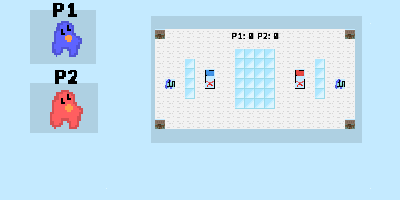
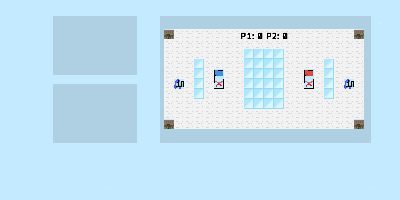
Singleplayer and multiplayer mode selection added + some weapon changes: -Mines now only have 1 ammo -Explosions from mines & missiles can kill ANYONE -Buffed the width of laser gun (looks kinda bad)

Changed region(s): [[0.06, 0.0, 0.93, 0.72]]

diff --git a/js/game.js b/js/game.js
@@ -14,6 +14,10 @@ class Game {
 		this.gameover = false;
 
 		this.justOffedControls = false;
+
+		// Players pressing ready
+		this.p1Pressed = false;
+		this.p2Pressed = false;
 	}
 
 	// Head to selection screen
@@ -27,6 +31,10 @@ class Game {
 		for (var i = 0; i < temp.length; i++) {
 			temp[i].style.visibility = "visible";
 		}
+		document.getElementById("goButton").style.visibility = "hidden";
+
+		this.p1Pressed = false;
+		this.p2Pressed = false;
 
 		// Set level name div to get the level name
 		document.getElementById("levelName").innerHTML = levelNames[this.level];
@@ -131,7 +139,37 @@ class Game {
 
 	// Update the selection screen loop
 	updateSelect() {
-		ctx.drawImage(selectionScreen_img, 0, 0);	
+		ctx.drawImage(selectionScreen_img, 0, 0);
+
+
+		// Show press to join for P1
+		if (!this.p1Pressed && !this.p2Pressed) {
+			ctx.drawImage(p1Join_img, 0, 0);
+
+			if (Keys.space) {
+				this.p1Pressed = true;
+				document.getElementById("goButton").style.visibility = "visible";
+				playSound(snowbreak_snd);
+			}
+
+		// Show press to join for P2
+		} else if (this.p1Pressed && !this.p2Pressed) {
+			ctx.drawImage(p2Join_img, 0, 0);
+
+            if (Keys.f) {
+            	this.p2Pressed = true;
+            	this.bot = false;
+           		playSound(snowbreak_snd);
+            }
+
+		} else if (this.p1Pressed && this.p2Pressed) {
+			ctx.drawImage(p1p2Join_img, 0, 0);
+		}
+
+
+
+
+		//if p1 and p2 not pressed ---> check for L to be pressed
 	}
 
 	// Update the control screen loop

diff --git a/js/weapon.js b/js/weapon.js
@@ -52,7 +52,7 @@ class Mine extends Gun {
 		this.gunID = 6;
 
 		this.shootTime = 1;
-		this.ammo = 2;
+		this.ammo = 1;
 
 		this.shootTime = 20;
 		this.animDelayTime = 20;
@@ -317,7 +317,7 @@ class LaserGun extends Gun {
 		if (this.chargeTimer > 0) {
 			ctx.fillStyle = "red";
 			ctx.globalAlpha = 0.3;
-			var beamWidth = 4;
+			var beamWidth = 12;
 			var beamDist = 400;
 
 			var anchorX = this.player.getXAnchor();
@@ -409,7 +409,7 @@ class Explosion extends Bullet {
 	// Check if hitting anyone or any walls
 	checkHit() {
 		for (var i of playerArr) {
-			if (this.owner.playerID != i.playerID && this.collideWith(i) && !i.dead) {
+			if (this.collideWith(i) && !i.dead) {
 				console.log("REKTT player " + i.playerID + "died...");
 				i.die(this.dir);
 			}
@@ -462,7 +462,7 @@ class MineBomb extends Bullet {
 	// Check if hitting anyone
 	checkHit() {
 		for (var i of playerArr) {
-			if (this.owner.playerID != i.playerID && this.collideWith(i) && !i.dead) {
+			if (this.collideWith(i) && !i.dead) {
 				this.explode();
 			}
 		}
@@ -689,10 +689,10 @@ class LaserBlast extends Bullet {
 		var tall;
 		if (dir == DIR.left || dir == DIR.right) {
 			wide = 20;
-			tall = 8;
+			tall = 16;
 		} else {
 			wide = 8;
-			tall = 20;
+			tall = 16;
 		}
 		super(x, y, wide, tall, laserBeam_img, 2, 3, [0,1,2], 0, 0, owner, dir);
 		this.aliveTimer = 30;  // How long to stay alive for

diff --git a/js/level.js b/js/level.js
@@ -19,16 +19,16 @@ levelNames.push("Slopey Range");
 */
 // Plain level
 levels.push([
-			["C", 0 , 0 , 0 , 0 , 0 , 0 , 0 , 0 , 0 , 0 , 0 , 0 , 0 , 0 , 0 , 0 , 0 , 0 ,"C"],
 			[ 0 , 0 , 0 , 0 , 0 , 0 , 0 , 0 , 0 , 0 , 0 , 0 , 0 , 0 , 0 , 0 , 0 , 0 , 0 , 0 ],
-			[ 0 , 1 ,"G","W","W", 0 , 0 , 0 , 0 , 0 , 0 , 0 , 0 , 0 , 0 , 0 , 0 , 0 , 0 , 0 ],
+			[ 0 , 0 , 0 , 0 , 0 , 0 , 0 , 0 , 0 , 0 , 0 , 0 , 0 , 0 , 0 , 0 , 0 , 0 , 0 , 0 ],
+			[ 0 , 1 ,"G","W","W", 0 ,"C", 0 , 0 , 0 , 0 , 0 , 0 ,"C", 0 , 0 , 0 , 0 , 0 , 0 ],
 			[ 0 , 0 ,"W","W","W", 0 , 0 , 0 , 0 , 0 , 0 , 0 , 0 , 0 , 0 , 0 , 0 , 0 , 0 , 0 ],
 			[ 0 , 0 ,"W","W","W", 0 , 0 , 0 , 0 , 0 , 0 , 0 , 0 , 0 , 0 , 0 , 0 , 0 , 0 , 0 ],
 			[ 0 , 0 , 0 , 0 , 0 , 0 , 0 , 0 , 0 , 0 , 0 , 0 , 0 , 0 , 0 ,"W","W","W", 0 , 0 ],
 			[ 0 , 0 , 0 , 0 , 0 , 0 , 0 , 0 , 0 , 0 , 0 , 0 , 0 , 0 , 0 ,"W","W","W", 0 , 0 ],
-			[ 0 , 0 , 0 , 0 , 0 , 0 , 0 , 0 , 0 , 0 , 0 , 0 , 0 , 0 , 0 ,"W","W","T", 2 , 0 ],
+			[ 0 , 0 , 0 , 0 , 0 , 0 ,"C", 0 , 0 , 0 , 0 , 0 , 0 ,"C", 0 ,"W","W","T", 2 , 0 ],
 			[ 0 , 0 , 0 , 0 , 0 , 0 , 0 , 0 , 0 , 0 , 0 , 0 , 0 , 0 , 0 , 0 , 0 , 0 , 0 , 0 ],
-			["C", 0 , 0 , 0 , 0 , 0 , 0 , 0 , 0 , 0 , 0 , 0 , 0 , 0 , 0 , 0 , 0 , 0 , 0 ,"C"]
+			[ 0 , 0 , 0 , 0 , 0 , 0 , 0 , 0 , 0 , 0 , 0 , 0 , 0 , 0 , 0 , 0 , 0 , 0 , 0 , 0 ]
 			]);		
 
 // Test level

diff --git a/js/class.js b/js/class.js
@@ -621,17 +621,17 @@ class Crate extends Entity {
 
 				// Give random gun
 				var rand = Math.random();
-				if (rand < 0.2) {
+				//if (rand < 0.2) {
 					i.gun = new LaserGun(i);
-				} else if (rand < 0.4) {
-					i.gun = new Shotgun(i);
-	     		} else if (rand < 0.6) {
-	     			i.gun = new Uzi(i);
-	     		} else if (rand < 0.8) {
-	     			i.gun = new RocketLauncher(i);
-	     		} else {
-	     			i.gun = new Mine(i);
-	     		}
+				//} else if (rand < 0.4) {
+				//	i.gun = new Shotgun(i);
+	     		//} else if (rand < 0.6) {
+	     		//	i.gun = new Uzi(i);
+	     		//} else if (rand < 0.8) {
+	     		//	i.gun = new RocketLauncher(i);
+	     		//} else {
+	     		//	i.gun = new Mine(i);
+	     		//}
 	     		
 
 	     		// Spawn crate in random empty spawn

diff --git a/js/files.js b/js/files.js
@@ -128,6 +128,13 @@ var timer_img = new Image();
 timer_img.src = "img/timer.png";
 
 
+var p1Join_img = new Image();
+p1Join_img.src = "img/p1Join.png";
+var p2Join_img = new Image();
+p2Join_img.src = "img/p2Join.png";
+var p1p2Join_img = new Image();
+p1p2Join_img.src = "img/p1p2Join.png";
+
 
 
 
